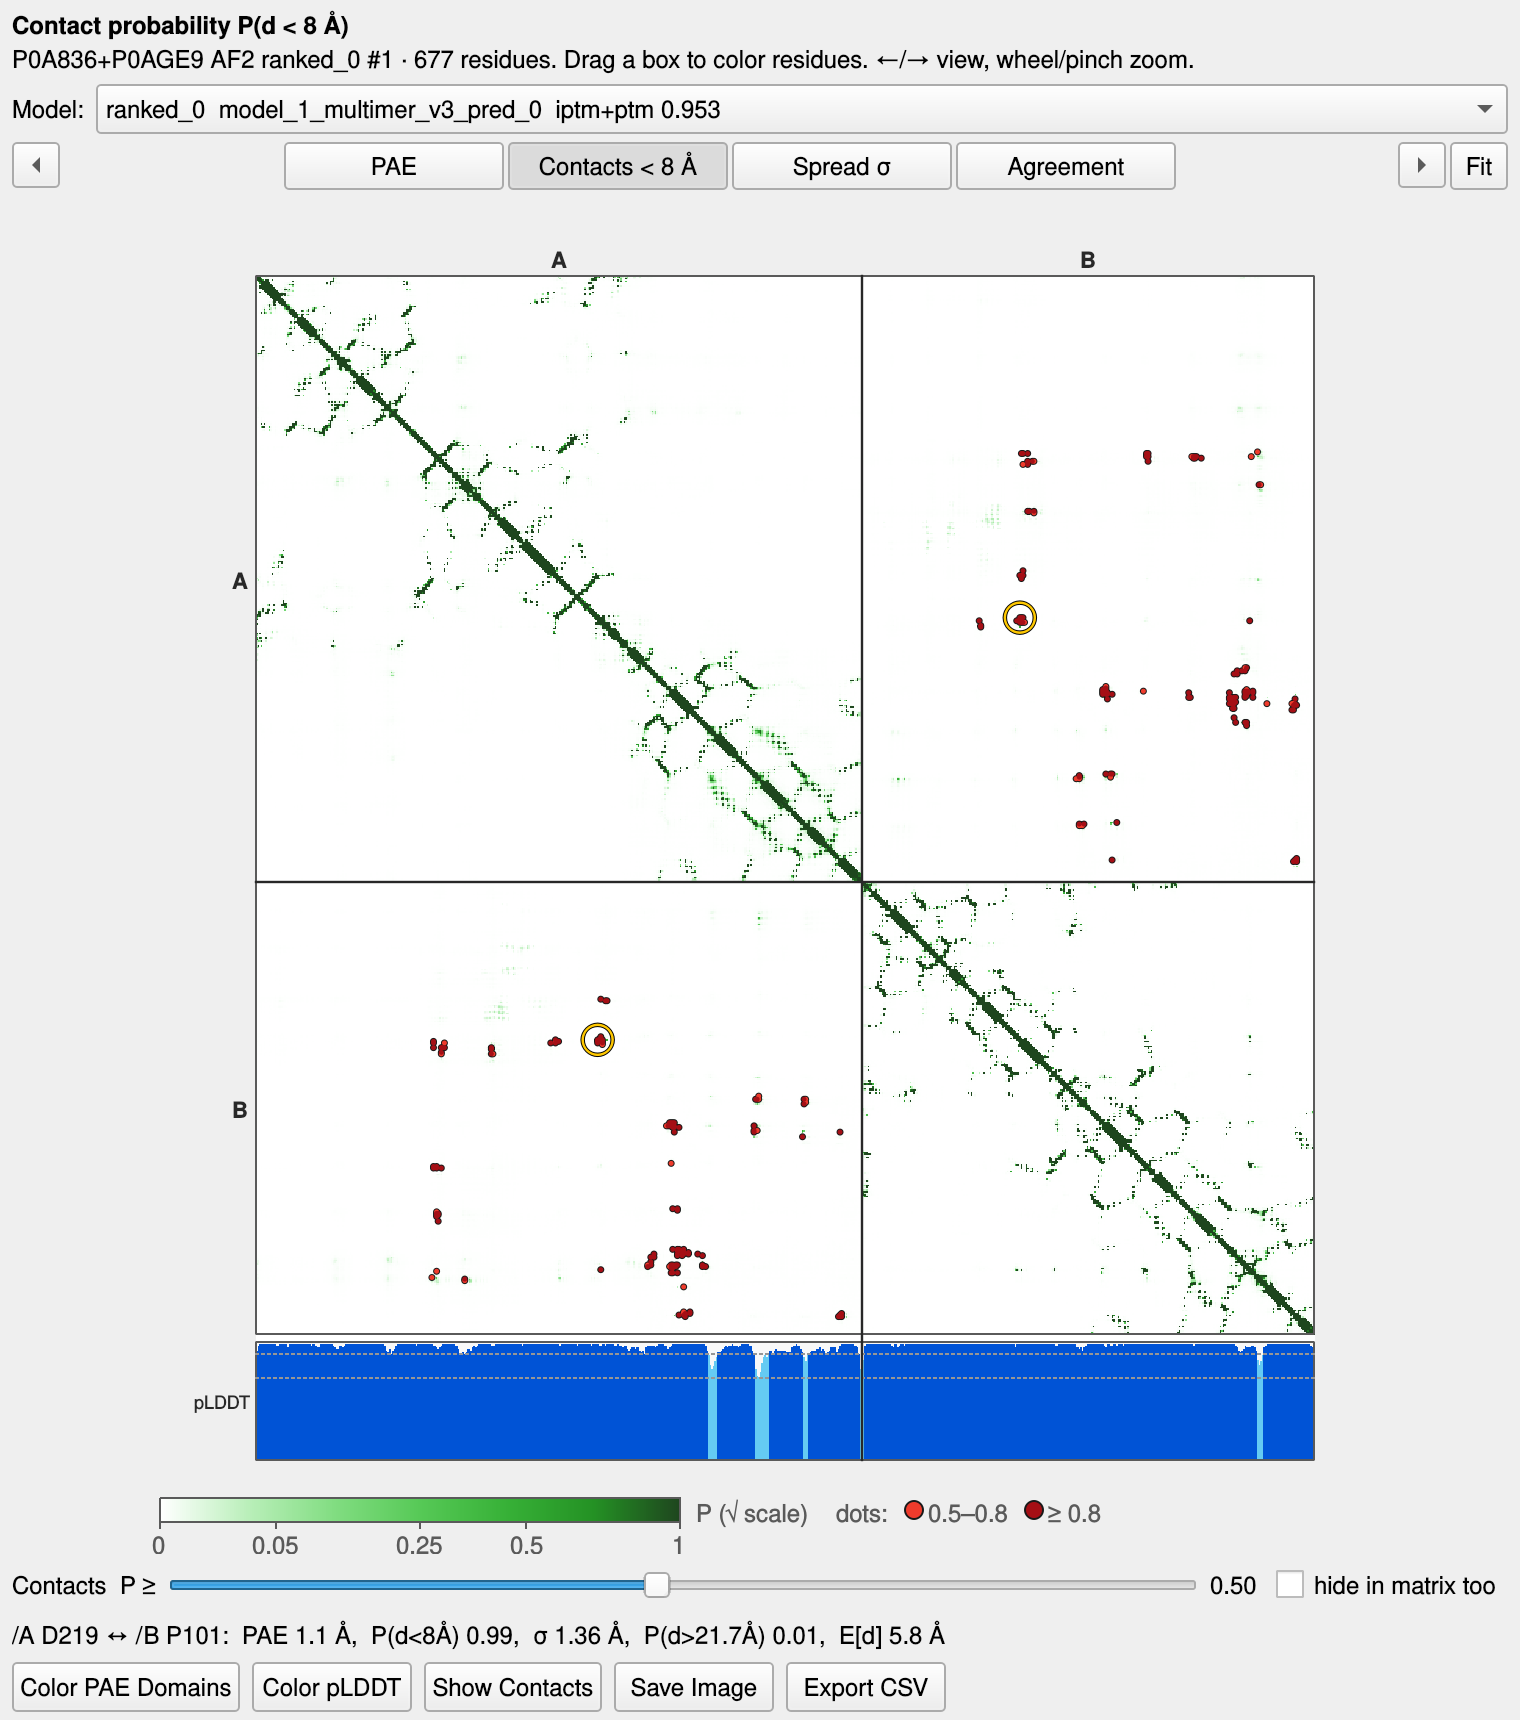
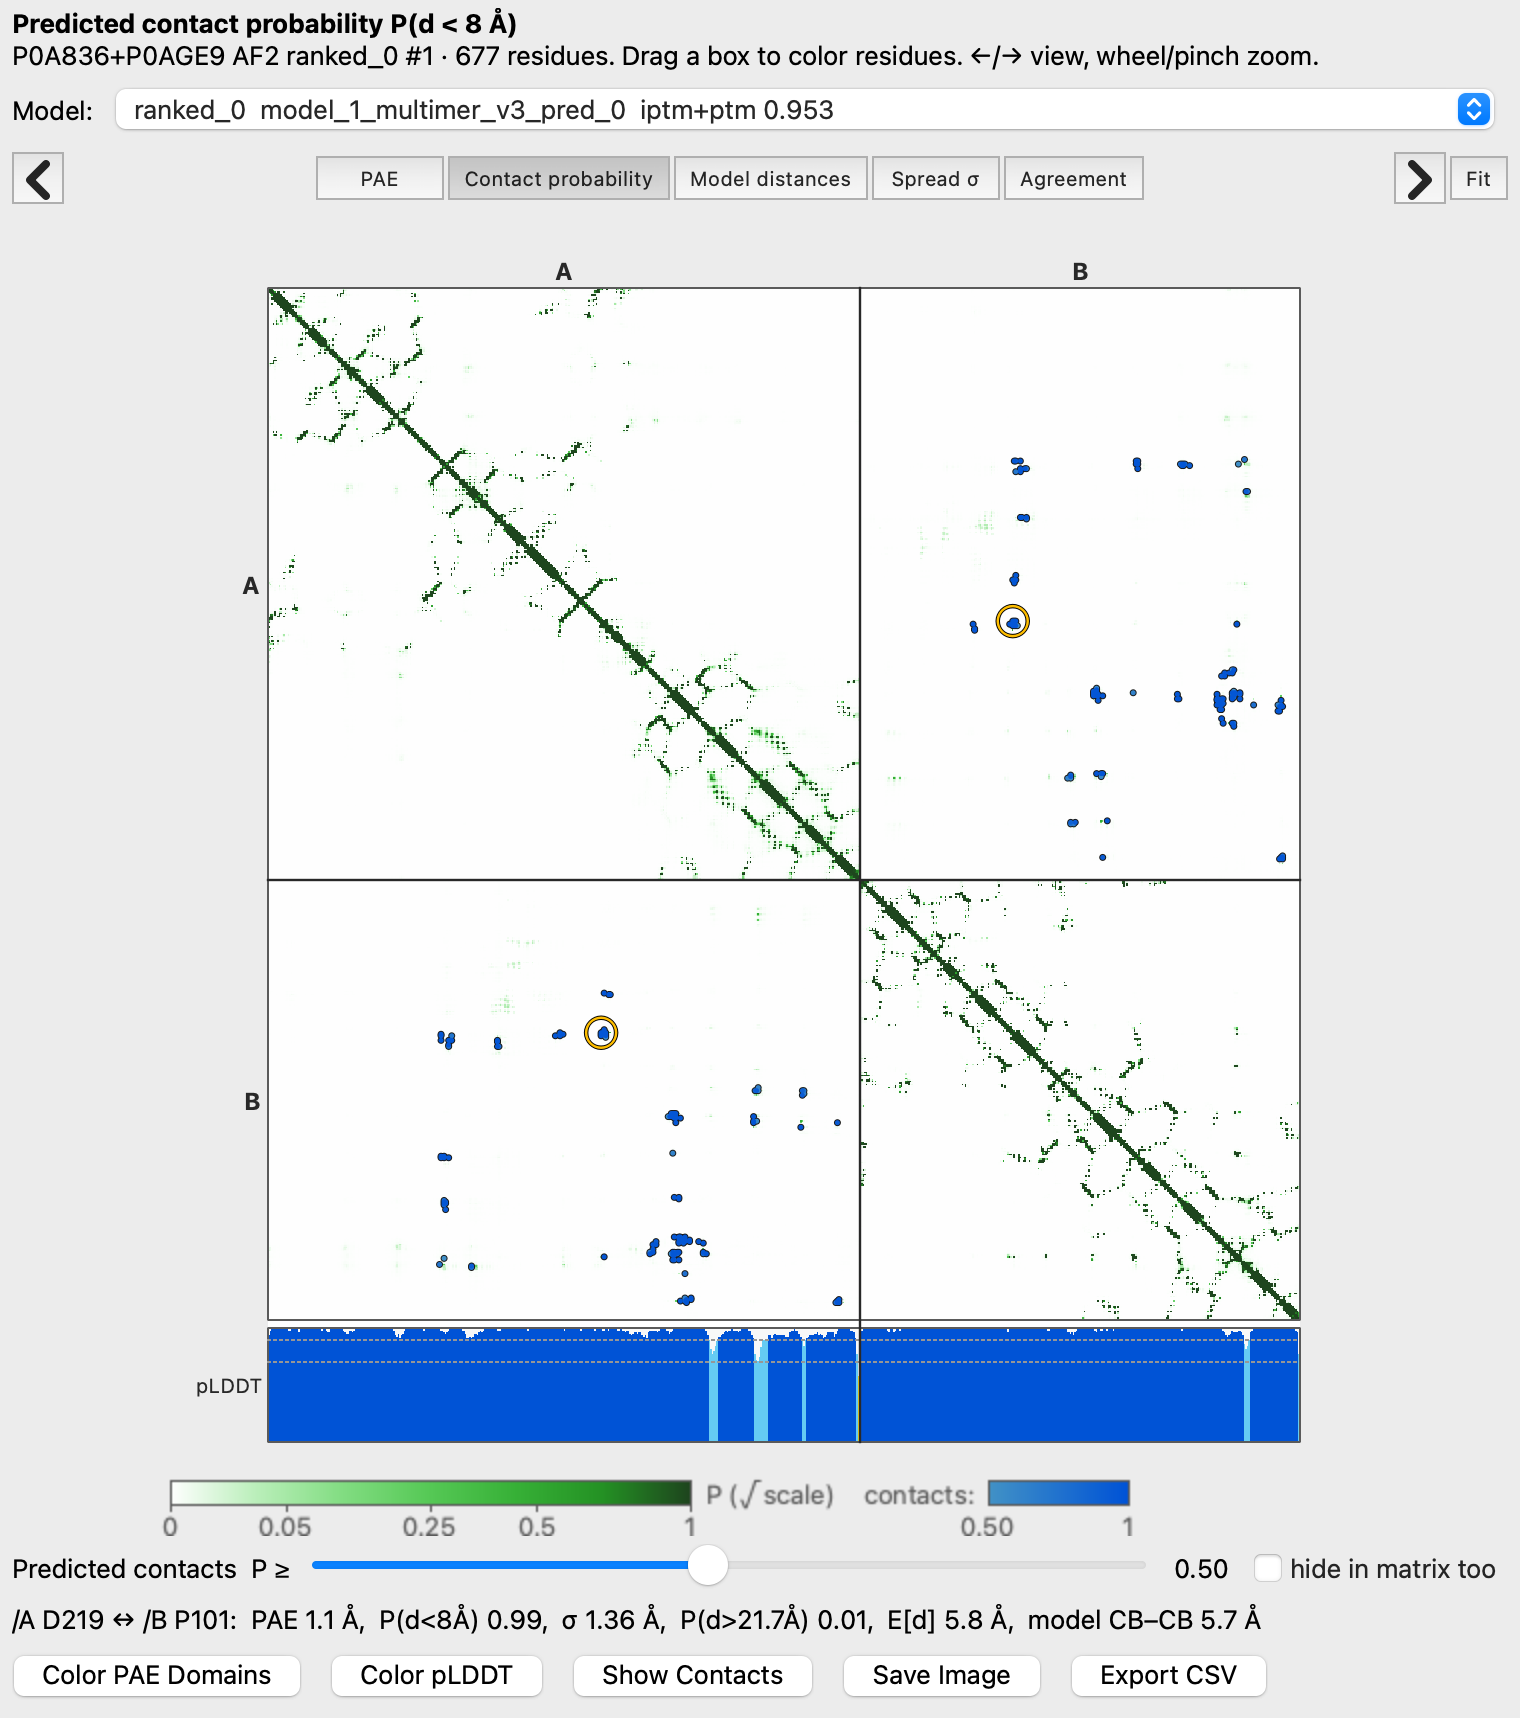
README images for AlphaLens 0.6: blue contacts, five views
- contacts.png: SucC-SucD contact-probability view with blue dots and the
  clicked contact ringed in gold (was red dots from 0.4).
- views.png: the five views (PAE, contact probability, model distances,
  spread, agreement) and the contacts with P >= 0.5 on the structure.
- agreement.png: AccB-AccC agreement view, same hovered pair as before.
- docs/render_readme_images.py renders all three in a ChimeraX window from
  the installed bundle; README captions updated.
- CHANGELOG 0.5.0: the repository is KosinskiLab/AlphaLens.

diff --git a/docs/render_readme_images.py b/docs/render_readme_images.py
@@ -1,0 +1,160 @@
+# Render the README images of AlphaLens in a real ChimeraX window, with the installed bundle.
+# Offscreen Qt is not enough: the plot is grabbed from its window.
+#
+#   OUT=<dir> DATA=<dir> [PARTS=contacts,views,agreement] ChimeraX --script render_readme_images.py
+#
+# DATA holds two public E. coli AlphaFold2 predictions whose result pickles kept the distogram,
+# P0A836+P0AGE9 (SucC-SucD) and P0ABD8+P24182 (AccB-AccC); in the Kosinski group they are under
+# /g/transform/kosinski/dima/IntAct_BioGRID_STRING/benchmark_26/predictions/full_unfiltered_v3/
+# ecoli/af2/pos_pairs/predictions/ (copy them with scripts/fetch_pred.sh). views.png is always
+# rendered; PARTS can leave out contacts.png or agreement.png.
+# contacts.png  SucC-SucD, contact-probability view, P >= 0.5, /A D219 - /B P101 clicked
+# views.png     SucC-SucD, the five views and the contacts on the structure, 2 x 3 panels
+# agreement.png AccB-AccC, agreement view, P >= 0.5, /A F148 - /B G52 hovered
+import os
+import sys
+import time
+import traceback
+
+sys.dont_write_bytecode = True
+OUT, DATA = os.environ['OUT'], os.environ['DATA']
+PARTS = os.environ.get('PARTS', 'contacts,views,agreement').split(',')
+os.makedirs(OUT, exist_ok=True)
+log = open(os.path.join(OUT, 'render_log.txt'), 'w')
+from chimerax.core.commands import run      # noqa: E402
+from chimerax.atomic import AtomicStructure  # noqa: E402
+
+
+def note(msg):
+    log.write(msg + '\n')
+    log.flush()
+
+
+def flush(n=30):
+    for _ in range(n):
+        session.ui.processEvents()
+        time.sleep(0.05)
+
+
+def structure():
+    return [m for m in session.models.list(type=AtomicStructure)][0]
+
+
+def window(plot, w, h):
+    plot.tool_window.ui_area.window().resize(w, h)
+    flush()
+
+
+def rows(plot):
+    return {(r.chain_id, r.number): k for k, r in enumerate(plot.pae.row_residues_or_atoms())}
+
+
+try:
+    # ---- contacts.png
+    run(session, f'alphalens open {DATA}/P0A836+P0AGE9 mode contact wait true')
+    s = structure()
+    plot = s._alphalens_plot
+    plot.set_threshold(0.5)
+    if 'contacts' in PARTS:
+        window(plot, 760, 860)
+        idx = rows(plot)
+        plot._pick_contact(idx[('A', 219)], idx[('B', 101)])
+        flush()
+        note('contacts info: ' + plot._info.text())
+        plot.save_image(os.path.join(OUT, 'contacts.png'))
+
+    # ---- views.png
+    plot.clear_picked_contact()
+    run(session, f'alphalens #{s.id_string} mode agreement wait true')
+    plot.set_threshold(0.5)
+    window(plot, 720, 780)
+    plot.set_mode('model')          # Widest colour bar: let the window settle before grabbing
+    flush(60)
+    from Qt.QtGui import QImage, QPainter, QColor, QFont
+    from Qt.QtCore import Qt, QRectF
+    panels = []
+    for mode, title in (('pae', 'PAE'), ('contact', 'Contact probability (dots: P ≥ 0.5)'),
+                        ('model', 'Model distances'), ('std', 'Spread σ'),
+                        ('agreement', 'Agreement (models with P ≥ 0.5)')):
+        plot.set_mode(mode)
+        flush()
+        flush()
+        panels.append((title, plot._view.grab(), plot._cbar.grab()))
+        note(f'grabbed {mode}: view {plot._view.width()}x{plot._view.height()}')
+    sizes = {(v.width(), v.height()) for _, v, _ in panels}
+    assert len(sizes) == 1, f'view sizes differ: {sizes}'
+    bg = panels[0][1].toImage().pixelColor(3, 3)       # Widget background, for the composite
+    # Contacts on the structure, P >= 0.5, as drawn by Show Contacts
+    plot._contacts_button_clicked(True)
+    run(session, f'color #{s.id_string}/A #c9c9c9 target c; color #{s.id_string}/B #e9d6ad target c')
+    run(session, 'set bgColor white; lighting soft; graphics silhouettes true; view; '
+                 'turn y 90; view pad 0.12')
+    dpr = panels[0][1].devicePixelRatio()
+    box_w = 0.84 * panels[0][1].width() / dpr           # Logical size of the 3D box below
+    box_h = 0.9 * panels[0][1].height() / dpr
+    run(session, f'windowsize {int(box_w)} {int(box_h)}')
+    flush()
+    run(session, 'view pad 0.12')
+    img3d = os.path.join(OUT, '_structure.png')
+    run(session, f'save {img3d} width {int(box_w * dpr)} height {int(box_h * dpr)} '
+                 f'supersample 3 transparentBackground true')
+    from Qt.QtGui import QPixmap
+    panels.append(('Contacts on the structure (P ≥ 0.5)', QPixmap(img3d), None))
+
+    pw = max(p[1].width() / p[1].devicePixelRatio() for p in panels[:5])
+    vh_l = max(p[1].height() / p[1].devicePixelRatio() for p in panels[:5])
+    cb_h = max(p[2].height() / p[2].devicePixelRatio() for p in panels[:5])
+    title_h, gap = 30, 16
+    ph = title_h + vh_l + cb_h + gap
+    cols, rws = 2, 3
+    W, H = int(cols * pw + gap), int(rws * ph)
+    img = QImage(int(W * dpr), int(H * dpr), QImage.Format.Format_RGB32)
+    img.setDevicePixelRatio(dpr)
+    img.fill(bg)
+    p = QPainter(img)
+    p.setRenderHint(QPainter.RenderHint.SmoothPixmapTransform, True)
+    font = QFont(p.font())
+    font.setPointSizeF(13)
+    font.setBold(True)
+    p.setFont(font)
+    p.setPen(QColor(30, 30, 30))
+    for k, (title, view, cbar) in enumerate(panels):
+        x0, y0 = (k % cols) * (pw + gap), (k // cols) * ph
+        p.drawText(QRectF(x0, y0, pw, title_h), Qt.AlignmentFlag.AlignCenter, title)
+        if cbar is None:            # 3D image: same box as a matrix panel, no colour bar
+            bw, bh = view.width() / dpr, view.height() / dpr       # Same aspect as saved
+            box = QRectF(x0 + (pw - bw) / 2, y0 + title_h + (vh_l - bh) / 2, bw, bh)
+            p.drawPixmap(box, view, QRectF(view.rect()))
+            continue
+        vwl, vhl = view.width() / view.devicePixelRatio(), view.height() / view.devicePixelRatio()
+        p.drawPixmap(QRectF(x0 + (pw - vwl) / 2, y0 + title_h, vwl, vhl), view, QRectF(view.rect()))
+        cwl, chl = cbar.width() / cbar.devicePixelRatio(), cbar.height() / cbar.devicePixelRatio()
+        p.drawPixmap(QRectF(x0 + (pw - cwl) / 2, y0 + title_h + vh_l, cwl, chl), cbar, QRectF(cbar.rect()))
+    p.end()
+    img = img.scaledToWidth(img.width() // 2, Qt.TransformationMode.SmoothTransformation)
+    img.save(os.path.join(OUT, 'views.png'))
+    note(f'views.png {img.width()}x{img.height()}')
+    run(session, 'close')
+    if 'agreement' not in PARTS:
+        raise SystemExit
+
+    # ---- agreement.png
+    run(session, f'alphalens open {DATA}/P0ABD8+P24182 mode agreement wait true')
+    s = structure()
+    plot = s._alphalens_plot
+    plot.set_threshold(0.5)
+    window(plot, 760, 860)
+    plot.set_mode('agreement')
+    idx = rows(plot)
+    plot._report(idx[('B', 52)], idx[('A', 148)])
+    flush()
+    note('agreement info: ' + plot._info.text())
+    plot.save_image(os.path.join(OUT, 'agreement.png'))
+    note('DONE')
+except SystemExit:
+    note('DONE (parts: ' + ','.join(PARTS) + ')')
+except Exception:
+    note('FAIL\n' + traceback.format_exc())
+finally:
+    log.close()
+    run(session, 'exit')

diff --git a/README.md b/README.md
@@ -12,9 +12,8 @@ the structure and exports them to CSV.
   alt="AlphaLens plot in the contact-probability view, with dots on the inter-chain contacts"></p>
 
 *The contact-probability view for an AlphaFold2 prediction of E. coli succinyl-CoA synthetase,
-SucC–SucD (UniProt P0A836, P0AGE9). Dots mark the inter-chain pairs with P ≥ 0.5 (red in this
-image from version 0.4; blue from 0.5 on). The ringed one was clicked; its values are in the line
-under the slider.*
+SucC–SucD (UniProt P0A836, P0AGE9). Blue dots mark the inter-chain pairs with P ≥ 0.5, darker for
+higher P. The one ringed in gold was clicked; its values are in the line under the slider.*
 
 | View | Matrix | Colors (dark = confident) |
 |---|---|---|
@@ -25,11 +24,12 @@ under the slider.*
 | Agreement | number of AF3 seeds or AF2 models in which the pair has P ≥ the slider threshold | 0 to the number of seeds or models |
 
 <p align="center"><img src="docs/images/views.png" width="760"
-  alt="The PAE, contact, spread and agreement views of one prediction"></p>
+  alt="The PAE, contact-probability, model-distance, spread and agreement views of one prediction, and its contacts drawn on the structure"></p>
 
-*The four views of the same prediction. In the spread view, grey marks pairs whose distance is
-mostly beyond the last distogram bin. The agreement view counts the five AlphaFold2 models in which
-each pair has P ≥ 0.5.*
+*The five views of the same prediction, and its inter-chain contacts with P ≥ 0.5 drawn on the
+structure by Show Contacts. In the spread view, grey marks pairs whose distance is mostly beyond
+the last distogram bin. The agreement view counts the five AlphaFold2 models in which each pair has
+P ≥ 0.5.*
 
 ## Install
 
@@ -286,6 +286,9 @@ distograms, CSV export, seed matching and loading errors without installing the 
 
 The plot window itself needs ChimeraX: build and install with `devel install`, then check it on an
 AlphaFold2 and an AlphaFold3 prediction.
+
+The images in this README are rendered from the installed bundle by
+`docs/render_readme_images.py`; its header says which predictions it needs and how to run it.
 
 ## License
 

diff --git a/CHANGELOG.md b/CHANGELOG.md
@@ -23,7 +23,7 @@
 
 * **Renamed from DistoPAE to AlphaLens**, as the plot now does more than show the distogram and
   PAE: bundle ChimeraX-AlphaLens, command `alphalens`, tool Tools > Structure Prediction >
-  AlphaLens, repository KosinskiLab/chimerax-alphalens. `distopae` and `distopae open` still
+  AlphaLens, repository KosinskiLab/AlphaLens. `distopae` and `distopae open` still
   work. Remove the old bundle with `toolshed uninstall DistoPAE`.
 * Predicted contacts are blue instead of red (blue reads as confident; red is kept for clashes):
   the dots on the plot and the lines on the structure, darker and thicker for higher P, with the
